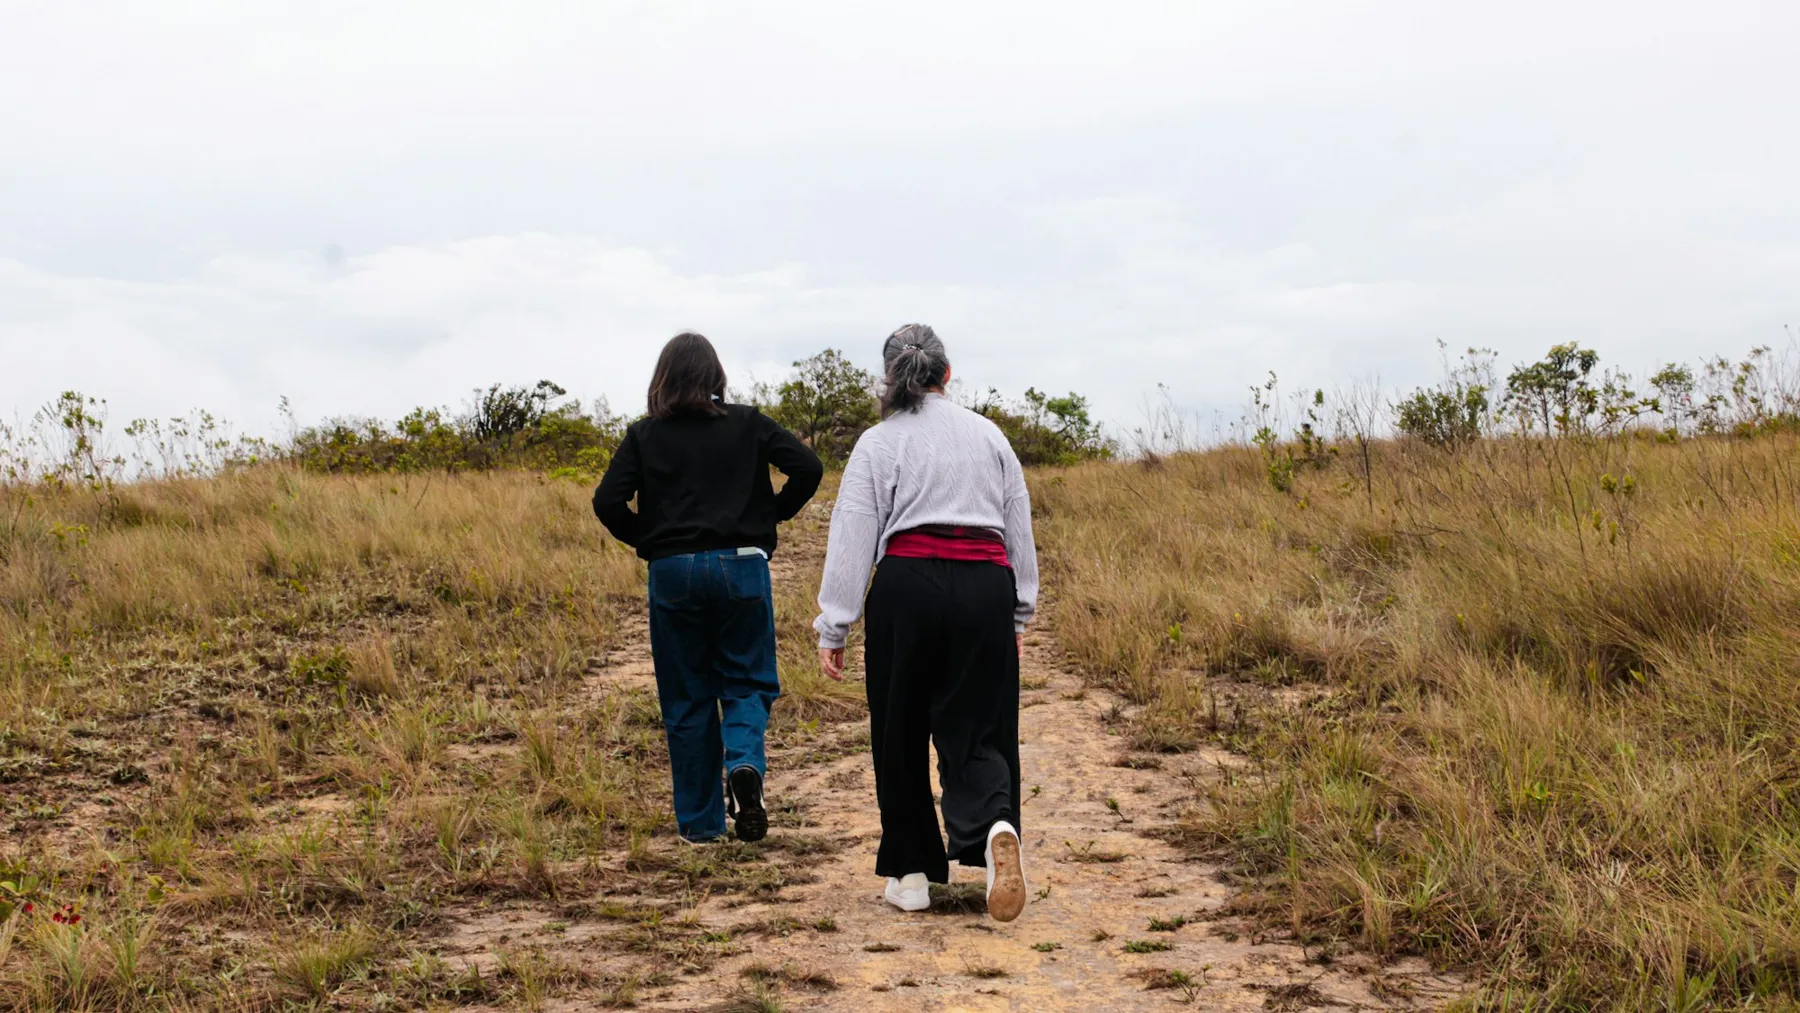
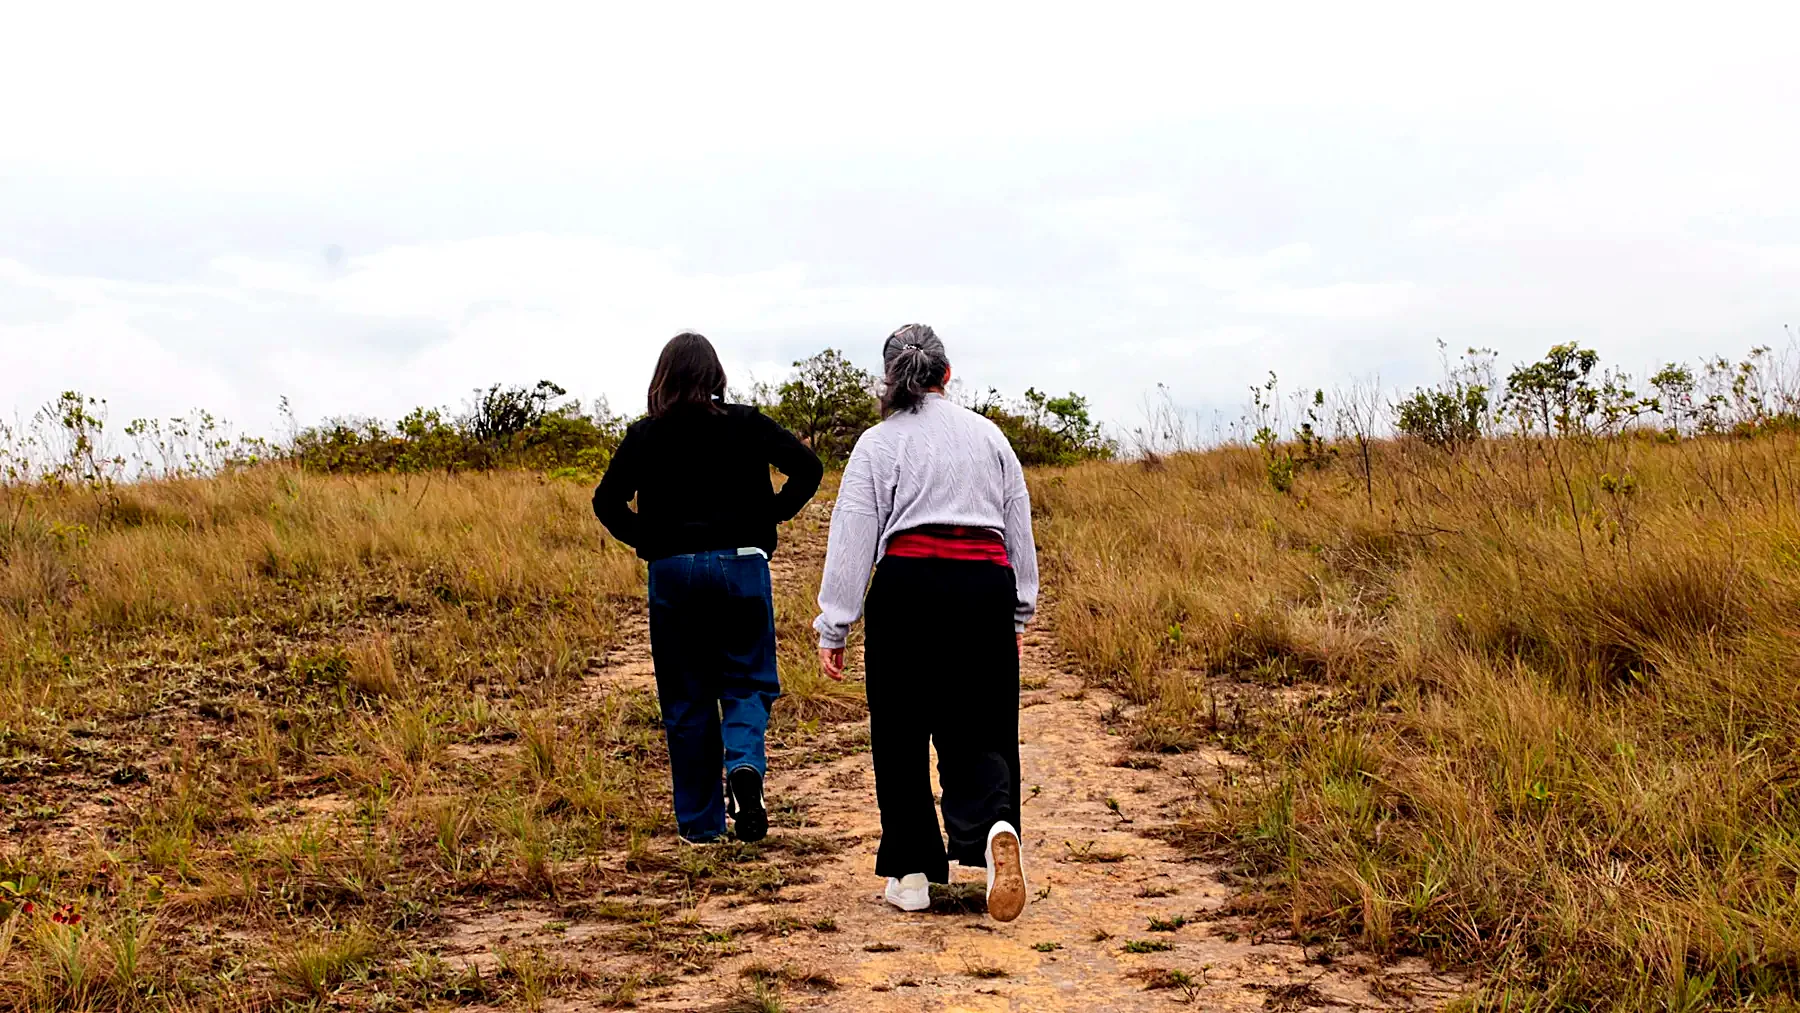
Welcome header photo: clearer contrast and color

Changed region(s): [[0.0, 0.3366, 1.0, 1.0]]

diff --git a/sw.js b/sw.js
@@ -7,7 +7,7 @@
    페이지는 network-first라 내용 수정 때 버전을 올릴 필요 없음.
    캐시 구조를 바꿀 때만 VERSION을 올리세요. (캐시 이름은 'home-' 으로 시작)
    ══════════════════════════════════════════════════════════ */
-const VERSION = 'home-v20260930-011550';
+const VERSION = 'home-v20260930-012331';
 const PAGE_CACHE = VERSION + '-pages';
 const ASSET_CACHE = VERSION + '-assets';
 const PRECACHE = ['/', '/manifest.json', '/favicon.ico', '/images/logo-mark.png', '/images/icon-192-em.png'];
